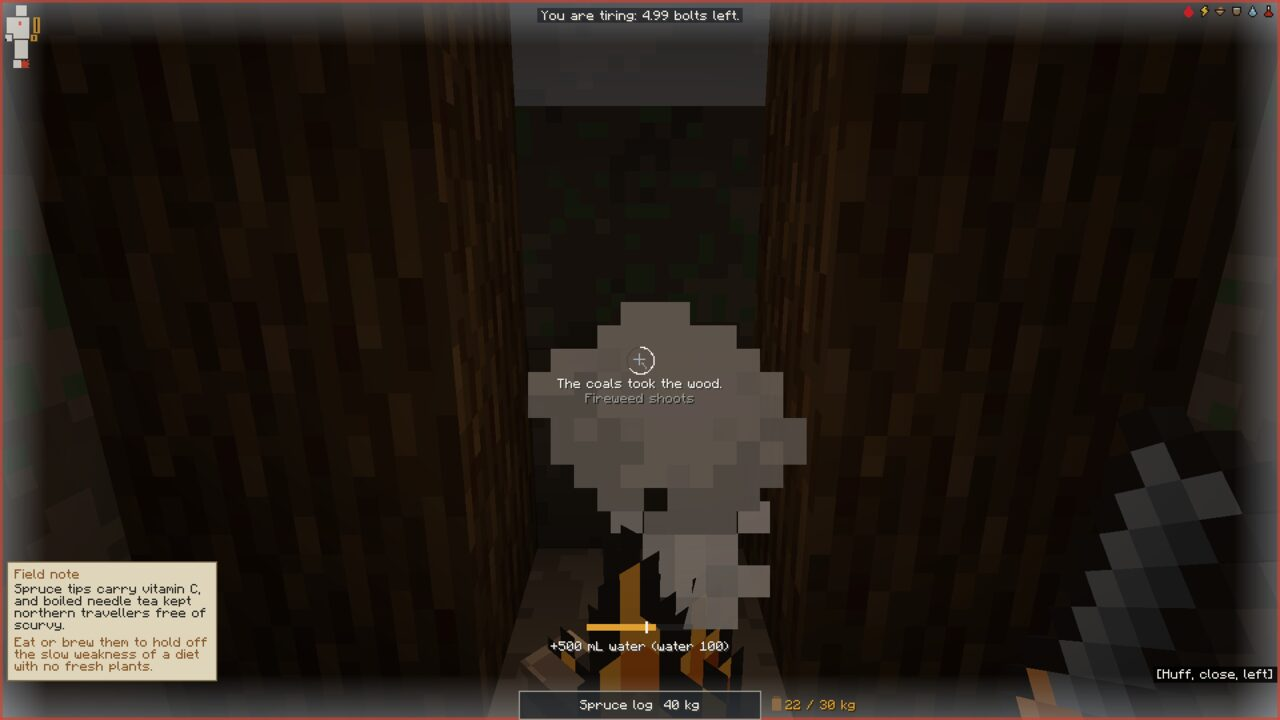
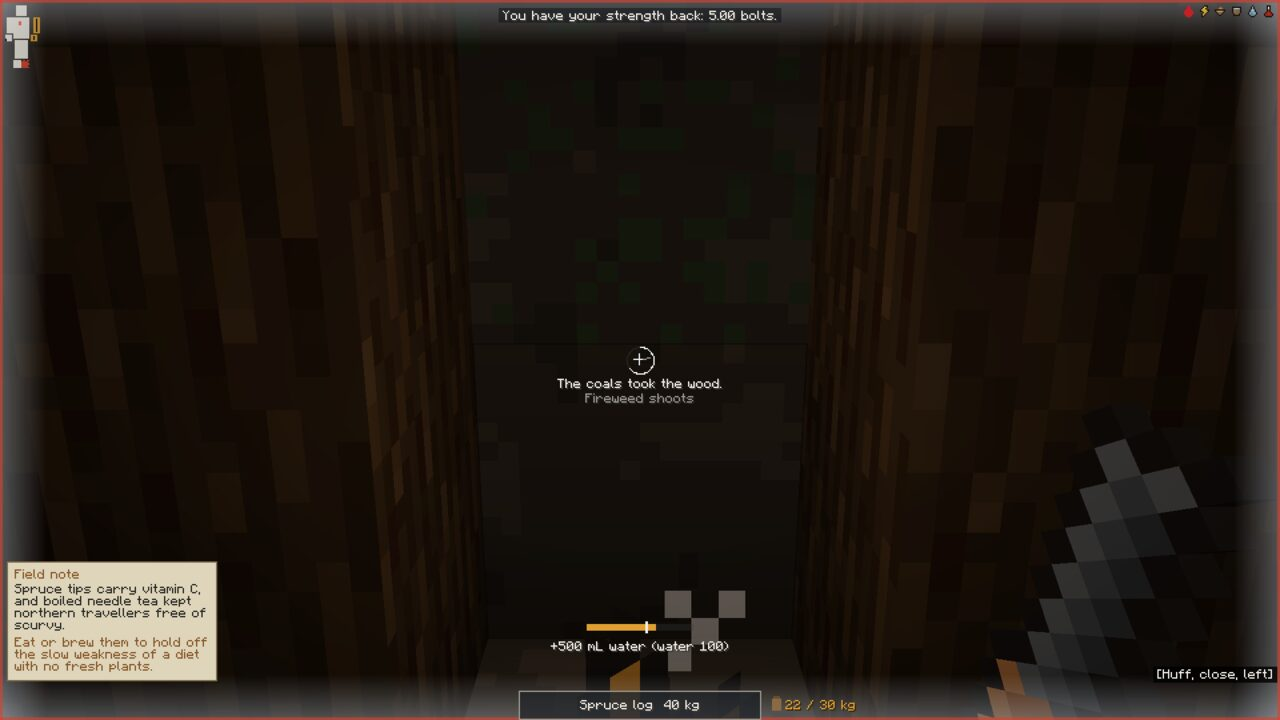
test(m7): proxy v3, RESULT FAIL on energy cap only (#100)
Claude-Session: https://claude.ai/code/session_01Xr2CVpzoZ636TDaUZHoGmj

diff --git a/src/main/java/com/yearofice/body/debug/WeekDriver.java b/src/main/java/com/yearofice/body/debug/WeekDriver.java
@@ -151,7 +151,7 @@ public final class WeekDriver {
             }
         }
         // GRANT: the M4-M7 winter kit has no crate source in the slice; a player would craft or find it. Logged, never hidden.
-        String[][] grants = {{"fur_mittens", "1"}, {"parka", "1"}, {"mukluks", "1"}, {"pemmican", "30"}, {"dried_fish", "20"}, {"pilot_bread", "12"}, {"match", "12"}};
+        String[][] grants = {{"fur_mittens", "1"}, {"fur_hat", "1"}, {"dried_meat", "20"}, {"parka", "1"}, {"mukluks", "1"}, {"pemmican", "30"}, {"dried_fish", "20"}, {"pilot_bread", "12"}, {"match", "12"}};
         for (String[] g : grants) {
             Item it = item(g[0]);
             if (it == net.minecraft.world.item.Items.AIR) { log("GRANT-MISSING " + g[0] + " is not a registered item"); continue; }
@@ -171,7 +171,7 @@ public final class WeekDriver {
             ItemStack st = p.getInventory().getItem(i);
             if (!st.isEmpty()) log("  kit: " + BuiltInRegistries.ITEM.getKey(st.getItem()) + " x" + st.getCount());
         }
-        for (String id : new String[] {"parka", "mukluks", "fur_mittens"}) {
+        for (String id : new String[] {"parka", "mukluks", "fur_mittens", "fur_hat"}) {
             ItemStack st = ItemStack.EMPTY;
             for (int i = 0; i < p.getInventory().getContainerSize(); i++) if (BuiltInRegistries.ITEM.getKey(p.getInventory().getItem(i).getItem()).getPath().equals(id)) { st = p.getInventory().getItem(i); break; }
             if (st.isEmpty()) { log("EQUIP " + id + " not in pack"); continue; }
@@ -384,9 +384,9 @@ public final class WeekDriver {
             }
         }
         if (did.add("sample" + (m / 60))) {
-            log(String.format(java.util.Locale.ROOT, "  [d%d %s] air %.1f warmth %.0f water %.0f energy %.1f kg %.1f kcal24 %.0f %s fire %s handsFrost %d/%d", day, clock(m),
+            log(String.format(java.util.Locale.ROOT, "  [d%d %s] air %.1f warmth %.0f water %.0f energy %.1f kg %.1f kcal24 %.0f %s fire %s handsFrost %d/%d cap %.1f", day, clock(m),
                     EnvService.get().airC(p.serverLevel(), p.blockPosition()), s.warmth, s.water, s.energy, s.kg, s.balance24h(), p.isSleeping() ? "asleep" : "awake",
-                    ring == null ? "-" : ring.fire().state().name() + " " + fmt(ring.fire().armloads()), s.parts.frost(Part.LEFT_HAND), s.parts.frost(Part.RIGHT_HAND)));
+                    ring == null ? "-" : ring.fire().state().name() + " " + fmt(ring.fire().armloads()), s.parts.frost(Part.LEFT_HAND), s.parts.frost(Part.RIGHT_HAND), s.lastEnergyCap));
         }
     }
 
@@ -463,7 +463,7 @@ public final class WeekDriver {
                 ItemStack st = p.getInventory().getItem(i);
                 if (st.isEmpty()) continue;
                 String id = BuiltInRegistries.ITEM.getKey(st.getItem()).getPath();
-                if (!(pass == 0 ? (id.equals("pemmican") || id.equals("dried_fish")) : id.equals("pilot_bread"))) continue;
+                if (!(pass == 0 ? (id.equals("pemmican") || id.equals("dried_meat") || id.equals("dried_fish")) : id.equals("pilot_bread"))) continue;
                 while (!st.isEmpty() && bites < 40) {
                     if (s.balance24h() + s.pendingKcal >= 0) break;
                     var b = Meals.eat(p, st);
